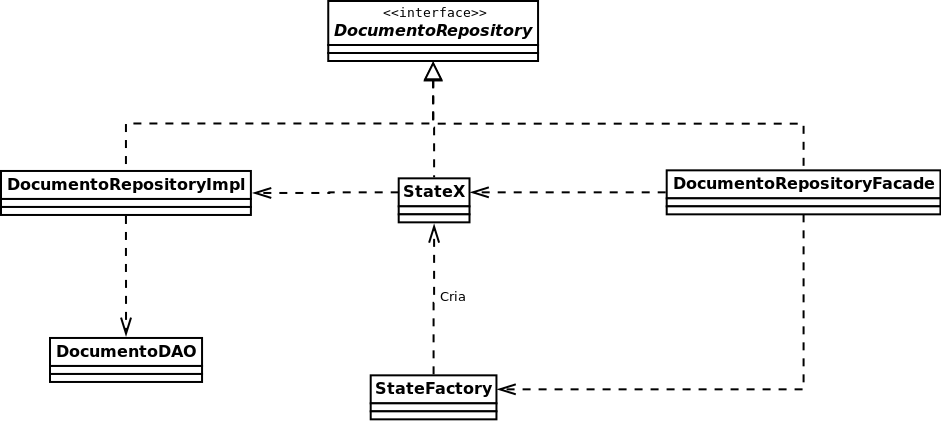
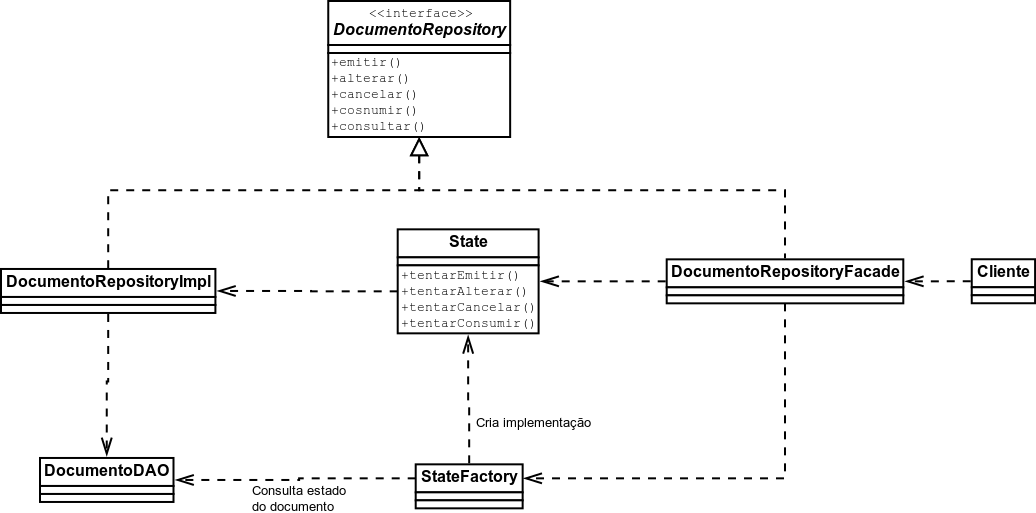
separando interface State na v1

diff --git a/state/src/main/java/org/leo/statev1/DocumentoRepositoryFacade.java b/state/src/main/java/org/leo/statev1/DocumentoRepositoryFacade.java
@@ -3,34 +3,35 @@ package org.leo.statev1;
 public class DocumentoRepositoryFacade implements DocumentoRepository {
 
 	private StateFactory stateFactory = new StateFactory();
+	private DocumentoRepository repository = new DocumentoRepositoryImpl();
 	
 	@Override
 	public void emitir(Documento documento) {
-		dependendoDoEstadoDoDocumento(documento.getNumero()).emitir(documento);
+		dependendoDoEstadoDoDocumento(documento.getNumero()).tentarEmitir(documento);
 	}
 
-	private DocumentoRepository dependendoDoEstadoDoDocumento(String numeroDocumento) {
+	private State dependendoDoEstadoDoDocumento(String numeroDocumento) {
 		return stateFactory.getStateForDocumento(numeroDocumento);
 	}
 	
 	@Override
 	public void alterar(Documento documento) {
-		dependendoDoEstadoDoDocumento(documento.getNumero()).alterar(documento);
+		dependendoDoEstadoDoDocumento(documento.getNumero()).tentarAlterar(documento);
 	}
 
 	@Override
 	public void cancelar(String numeroDocumento) {
-		dependendoDoEstadoDoDocumento(numeroDocumento).cancelar(numeroDocumento);
+		dependendoDoEstadoDoDocumento(numeroDocumento).tentarCancelar(numeroDocumento);
 	}
 
 	@Override
 	public void consumir(Documento documento) {
-		dependendoDoEstadoDoDocumento(documento.getNumero()).consumir(documento);
+		dependendoDoEstadoDoDocumento(documento.getNumero()).tentarConsumir(documento);
 	}
 
 	@Override
 	public Documento consultar(String numeroDocumento) {
-		return dependendoDoEstadoDoDocumento(numeroDocumento).consultar(numeroDocumento);
+		return repository.consultar(numeroDocumento);
 	}
 
 }

diff --git a/state/src/main/java/org/leo/statev1/StateCancelado.java b/state/src/main/java/org/leo/statev1/StateCancelado.java
@@ -1,32 +1,25 @@
 package org.leo.statev1;
 
-public class StateCancelado implements DocumentoRepository {
+public class StateCancelado implements State {
 
-	private DocumentoRepository repository = new DocumentoRepositoryImpl();
-	
 	@Override
-	public void emitir(Documento documento) {
+	public void tentarEmitir(Documento documento) {
 		throw new IllegalStateException();
 	}
 
 	@Override
-	public void alterar(Documento documento) {
+	public void tentarAlterar(Documento documento) {
 		throw new IllegalStateException();
 	}
 
 	@Override
-	public void cancelar(String numeroDocumento) {
+	public void tentarCancelar(String numeroDocumento) {
 		throw new IllegalStateException();
 	}
 
 	@Override
-	public void consumir(Documento documento) {
+	public void tentarConsumir(Documento documento) {
 		throw new IllegalStateException();
-	}
-
-	@Override
-	public Documento consultar(String numeroDocumento) {
-		return repository.consultar(numeroDocumento);
 	}
 
 }

diff --git a/state/src/main/java/org/leo/statev1/StateConsumido.java b/state/src/main/java/org/leo/statev1/StateConsumido.java
@@ -1,32 +1,25 @@
 package org.leo.statev1;
 
-public class StateConsumido implements DocumentoRepository {
+public class StateConsumido implements State {
 
-	private DocumentoRepository repository = new DocumentoRepositoryImpl();
-	
 	@Override
-	public void emitir(Documento documento) {
+	public void tentarEmitir(Documento documento) {
 		throw new IllegalStateException();
 	}
 
 	@Override
-	public void alterar(Documento documento) {
+	public void tentarAlterar(Documento documento) {
 		throw new IllegalStateException();
 	}
 
 	@Override
-	public void cancelar(String numeroDocumento) {
+	public void tentarCancelar(String numeroDocumento) {
 		throw new IllegalStateException();
 	}
 
 	@Override
-	public void consumir(Documento documento) {
+	public void tentarConsumir(Documento documento) {
 		throw new IllegalStateException();
-	}
-
-	@Override
-	public Documento consultar(String numeroDocumento) {
-		return repository.consultar(numeroDocumento);
 	}
 
 }

diff --git a/state/src/main/java/org/leo/statev1/StateEmitido.java b/state/src/main/java/org/leo/statev1/StateEmitido.java
@@ -1,32 +1,27 @@
 package org.leo.statev1;
 
-public class StateEmitido implements DocumentoRepository {
+public class StateEmitido implements State {
 
 	private DocumentoRepository repository = new DocumentoRepositoryImpl();
 	
 	@Override
-	public void emitir(Documento documento) {
+	public void tentarEmitir(Documento documento) {
 		throw new IllegalStateException();
 	}
 
 	@Override
-	public void alterar(Documento documento) {
+	public void tentarAlterar(Documento documento) {
 		repository.alterar(documento);
 	}
 
 	@Override
-	public void cancelar(String numeroDocumento) {
+	public void tentarCancelar(String numeroDocumento) {
 		repository.cancelar(numeroDocumento);
 	}
 
 	@Override
-	public void consumir(Documento documento) {
+	public void tentarConsumir(Documento documento) {
 		repository.consumir(documento);
-	}
-
-	@Override
-	public Documento consultar(String numeroDocumento) {
-		return repository.consultar(numeroDocumento);
 	}
 
 }

diff --git a/state/src/main/java/org/leo/statev1/StateNovo.java b/state/src/main/java/org/leo/statev1/StateNovo.java
@@ -1,32 +1,27 @@
 package org.leo.statev1;
 
-public class StateNovo implements DocumentoRepository {
+public class StateNovo implements State {
 
 	private DocumentoRepository repository = new DocumentoRepositoryImpl();
 	
 	@Override
-	public void emitir(Documento documento) {
+	public void tentarEmitir(Documento documento) {
 		repository.emitir(documento);
 	}
 
 	@Override
-	public void alterar(Documento documento) {
+	public void tentarAlterar(Documento documento) {
 		throw new IllegalStateException();
 	}
 
 	@Override
-	public void cancelar(String numeroDocumento) {
+	public void tentarCancelar(String numeroDocumento) {
 		throw new IllegalStateException();
 	}
 
 	@Override
-	public void consumir(Documento documento) {
+	public void tentarConsumir(Documento documento) {
 		throw new IllegalStateException();
-	}
-
-	@Override
-	public Documento consultar(String numeroDocumento) {
-		return repository.consultar(numeroDocumento);
 	}
 
 }

diff --git a/state/src/main/java/org/leo/statev1/StateFactory.java b/state/src/main/java/org/leo/statev1/StateFactory.java
@@ -4,7 +4,7 @@ public class StateFactory {
 
 	private DocumentoDAO documentoDAO = new DocumentoDAO();
 
-	public DocumentoRepository getStateForDocumento(String numeroDocumento) {
+	public State getStateForDocumento(String numeroDocumento) {
 		Documento documento = documentoDAO.consultar(numeroDocumento);
 		if (documento == null) {
 			return new StateNovo();

diff --git a/state/src/main/java/org/leo/statev1/State.java b/state/src/main/java/org/leo/statev1/State.java
@@ -1,0 +1,13 @@
+package org.leo.statev1;
+
+public interface State {
+
+	void tentarEmitir(Documento documento);
+
+	void tentarAlterar(Documento documento);
+
+	void tentarCancelar(String numeroDocumento);
+	
+	void tentarConsumir(Documento documento);
+
+}

diff --git a/state/src/test/java/org/leo/statev1/DocumentoRepositoryTest.java b/state/src/test/java/org/leo/statev1/DocumentoRepositoryTest.java
@@ -12,7 +12,6 @@ public class DocumentoRepositoryTest {
 	static AtomicInteger counter = new AtomicInteger();
 
 	DocumentoRepository repository = new DocumentoRepositoryFacade();
-
 	
 	@Test
 	public void shouldEmitirDocumento() {
